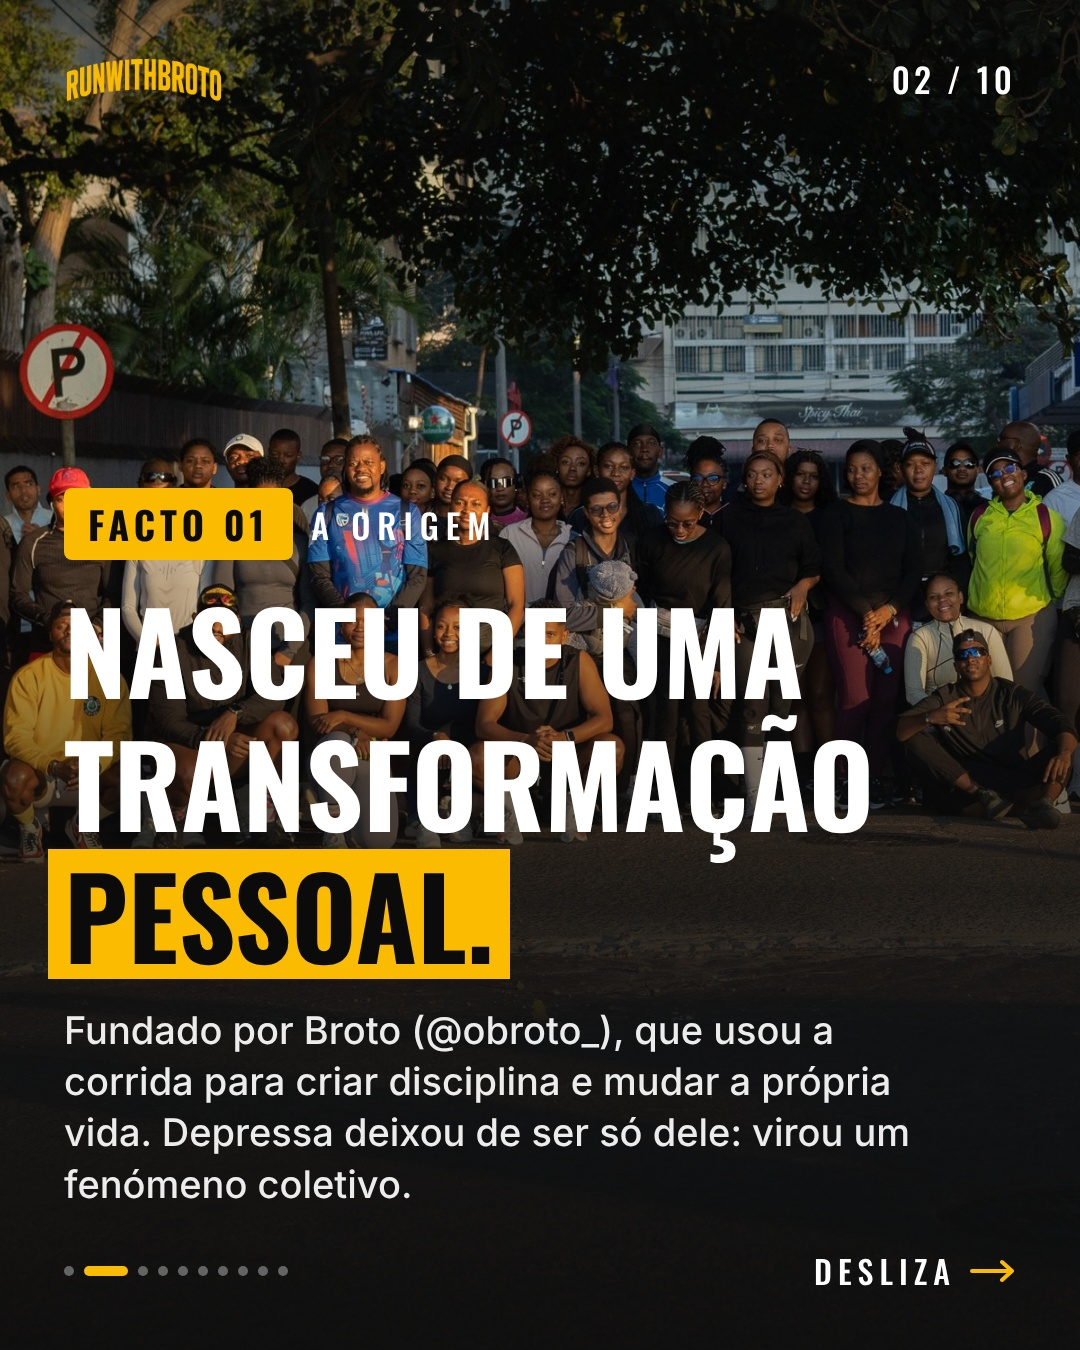
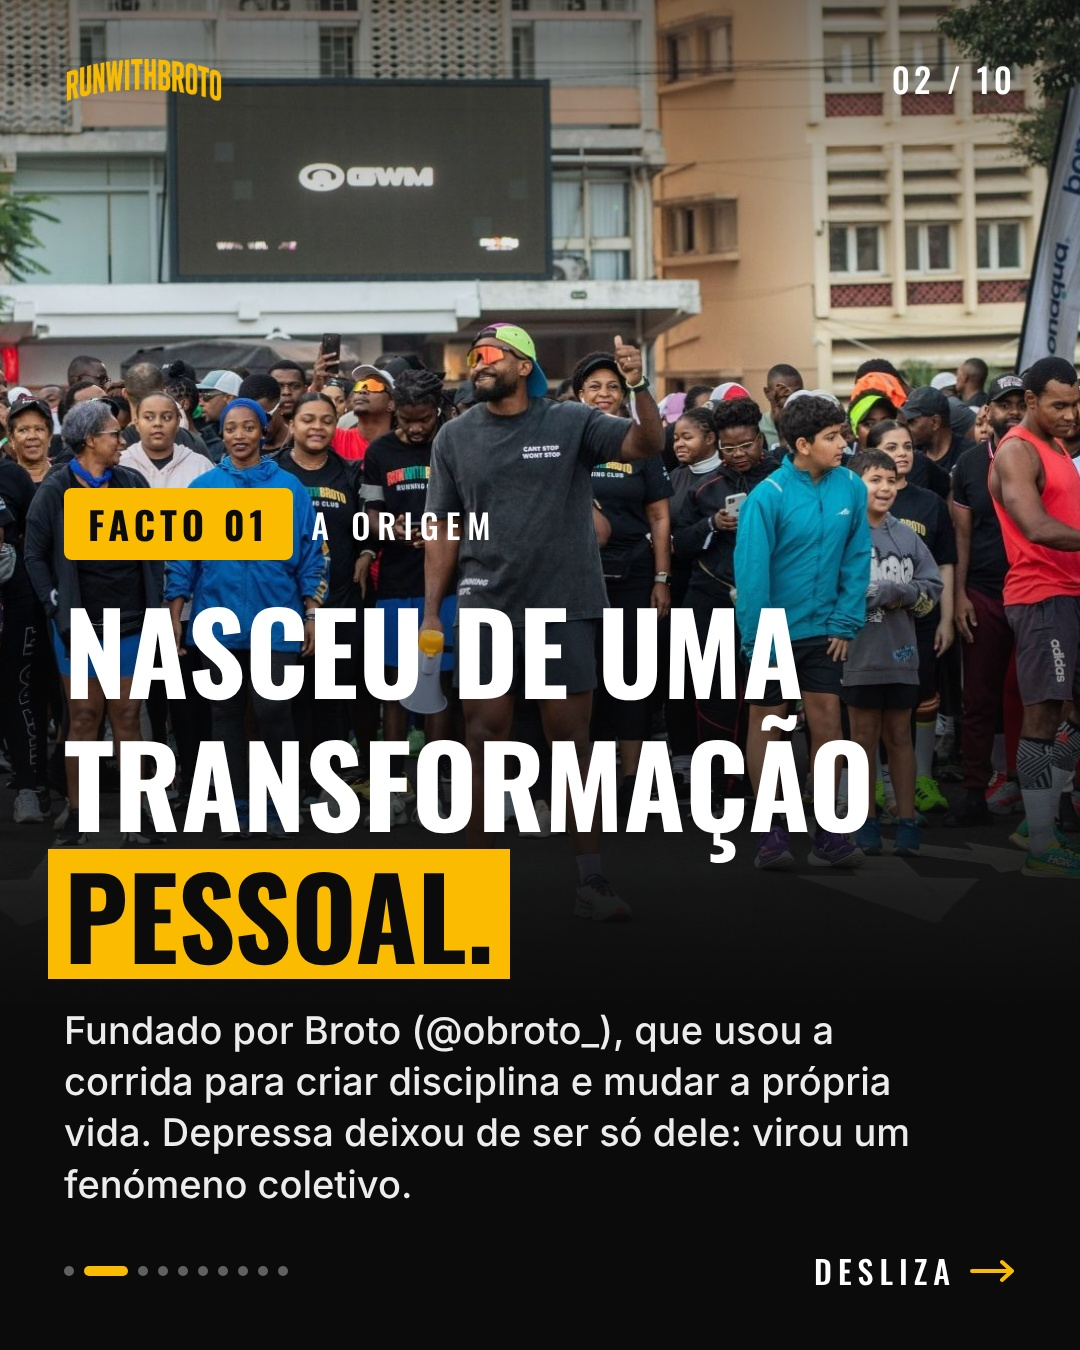
Carrossel: foto real da Night Run e foto do Broto com a comunidade
Claude-Session: https://claude.ai/code/session_01DkaCWGXuFd6yQ1MSFtQr7D

diff --git a/src/facts.ts b/src/facts.ts
@@ -18,10 +18,10 @@ export type Fact = {
 };
 
 export const FACTS: Fact[] = [
-  {kicker: "FACTO 01", chapter: "A ORIGEM", anim: "slideUp", title: "Nasceu de uma\ntransformação\npessoal.", body: "Fundado por Broto (@obroto_), que usou a corrida para criar disciplina e mudar a própria vida. Depressa deixou de ser só dele: virou um fenómeno coletivo.", photo: "photos/04.jpg"},
+  {kicker: "FACTO 01", chapter: "A ORIGEM", anim: "slideUp", title: "Nasceu de uma\ntransformação\npessoal.", body: "Fundado por Broto (@obroto_), que usou a corrida para criar disciplina e mudar a própria vida. Depressa deixou de ser só dele: virou um fenómeno coletivo.", photo: "photos/broto.jpg"},
   {kicker: "FACTO 02", chapter: "A EXPANSÃO", anim: "slideUp", title: "Nasceu em\nMaputo.\nChegou à Matola.", body: "A comunidade saiu de Maputo e levou a corrida a novas ruas.", photo: "photos/02.jpg", cut: "photos/02-cut.png", pos: "52% 50%", route: ["MAPUTO", "MATOLA"]},
   {kicker: "FACTO 03", chapter: "O LEMA", anim: "words", deco: "pack", title: "Ninguém fica\npara trás.", body: "We run together. We grow together. A consistência vence a motivação. E a rua é para todos.", photo: "photos/03.jpg", cut: "photos/03-cut.png"},
-  {kicker: "FACTO 04", chapter: "O RITUAL", anim: "slideX", accent: "#6aa7ff", title: "Quinta-feira\né dia de\nCaracol.", body: "Todas as quintas à noite, a Night Run parte do Caracol, em Maputo. É famosa entre a juventude pela energia e pelo convívio.", photo: "photos/01.jpg"},
+  {kicker: "FACTO 04", chapter: "O RITUAL", anim: "slideX", accent: "#6aa7ff", title: "Quinta-feira\né dia de\nCaracol.", body: "Todas as quintas à noite, a Night Run parte do Caracol, em Maputo. É famosa entre a juventude pela energia e pelo convívio.", photo: "photos/night.jpg"},
   {kicker: "FACTO 05", chapter: "O FORMATO", anim: "zoom", title: "Corridas\nhíbridas.", body: "Partidas em locais históricos diferentes (Estátua Eduardo Mondlane, Praça da OMM, Destacamento Feminino) e uma só chegada: a Fortaleza.", photo: "photos/hybrid.jpg"},
   {kicker: "FACTO 06", chapter: "A COMUNIDADE", anim: "wipeX", deco: "dots", title: "membros\nactivos.", body: "Eventos chegam a ter mais de 1 000 inscrições numa única semana.", photo: "photos/nov.jpg", stat: {to: 2500, prefix: "+"}},
   {kicker: "FACTO 07", chapter: "AS CAUSAS", anim: "slideX", accent: "#ff5fa2", title: "inscritos no\nOutubro Rosa.", body: "Uma corrida para conscientizar sobre a prevenção do câncer de mama.", photo: "photos/05.jpg", stat: {to: 1000, prefix: "+"}},

diff --git a/src/carousel.ts b/src/carousel.ts
@@ -7,21 +7,21 @@ export const HANDLE = "@runwithbroto_";
 
 export type FactSlide = {
   kind: "fact"; kicker: string; chapter: string; title: string; body: string; photo: string; cut?: string; pos: string;
-  accent: string; night?: boolean; stat?: {text: string; stamp?: boolean};
+  accent: string; night?: boolean; shift?: number; stat?: {text: string; stamp?: boolean};
 };
 export type Slide = {kind: "cover"; prompt: string; photo: string; pos: string} | FactSlide | {kind: "cta"};
 
 const BRAND = "#fabb00";
 // foto / recorte / enquadramento de cada facto (mesma ordem de FACTS em facts.ts)
 const LOOK = [
-  {pos: "50% 50%"}, {pos: "40% 50%"}, {pos: "50% 35%"}, {pos: "50% 40%", night: true}, {pos: "50% 35%"}, {pos: "50% 30%"}, {pos: "50% 40%"}, {pos: "50% 0%"},
+  {pos: "49% 50%", shift: 170}, {pos: "40% 50%"}, {pos: "50% 35%"}, {pos: "50% 0%", shift: 330}, {pos: "50% 35%"}, {pos: "50% 30%"}, {pos: "50% 40%"}, {pos: "50% 0%"},
 ];
 const STAT = [undefined, undefined, undefined, undefined, undefined, {text: "+2 500"}, {text: "+1 000"}, {text: "25 JUN", stamp: true}];
 
 export const SLIDES: Slide[] = [
   {kind: "cover", prompt: PROMPT, photo: "photos/cover.jpg", pos: "50% 30%"},
   ...FACTS.map((f, i): FactSlide => ({
-    kind: "fact", kicker: f.kicker, chapter: f.chapter, title: f.title, body: f.body, photo: f.photo, cut: f.cut, pos: LOOK[i].pos, night: (LOOK[i] as {night?: boolean}).night,
+    kind: "fact", kicker: f.kicker, chapter: f.chapter, title: f.title, body: f.body, photo: f.photo, cut: f.cut, pos: LOOK[i].pos, night: (LOOK[i] as {night?: boolean}).night, shift: (LOOK[i] as {shift?: number}).shift,
     accent: f.accent ?? BRAND, stat: STAT[i],
   })),
   {kind: "cta"},

diff --git a/src/Carousel.tsx b/src/Carousel.tsx
@@ -86,7 +86,7 @@ const Fact: React.FC<{s: FactSlide}> = ({s}) => {
   const stat = s.stat;
   return (
     <AbsoluteFill style={{background: INK}}>
-      <Img src={staticFile(s.photo)} style={{width: "100%", height: "100%", objectFit: "cover", objectPosition: s.pos, filter: s.cut ? "blur(4px) brightness(0.8)" : s.night ? "brightness(0.55) saturate(0.7) contrast(1.1)" : undefined}} />
+      <Img src={staticFile(s.photo)} style={{width: "100%", height: "100%", objectFit: "cover", objectPosition: s.pos, transform: s.shift ? `translateY(${-s.shift}px)` : undefined, WebkitMaskImage: s.shift ? `linear-gradient(180deg, #000 ${1350 - s.shift - 200}px, transparent ${1350 - s.shift}px)` : undefined, filter: s.cut ? "blur(4px) brightness(0.8)" : s.night ? "brightness(0.55) saturate(0.7) contrast(1.1)" : undefined}} />
       {s.night && <AbsoluteFill style={{background: "linear-gradient(180deg, rgba(8,24,70,0.78) 0%, rgba(14,40,110,0.45) 100%)", mixBlendMode: "multiply"}} />}
       {s.night && <Moon />}
       {s.cut && (
